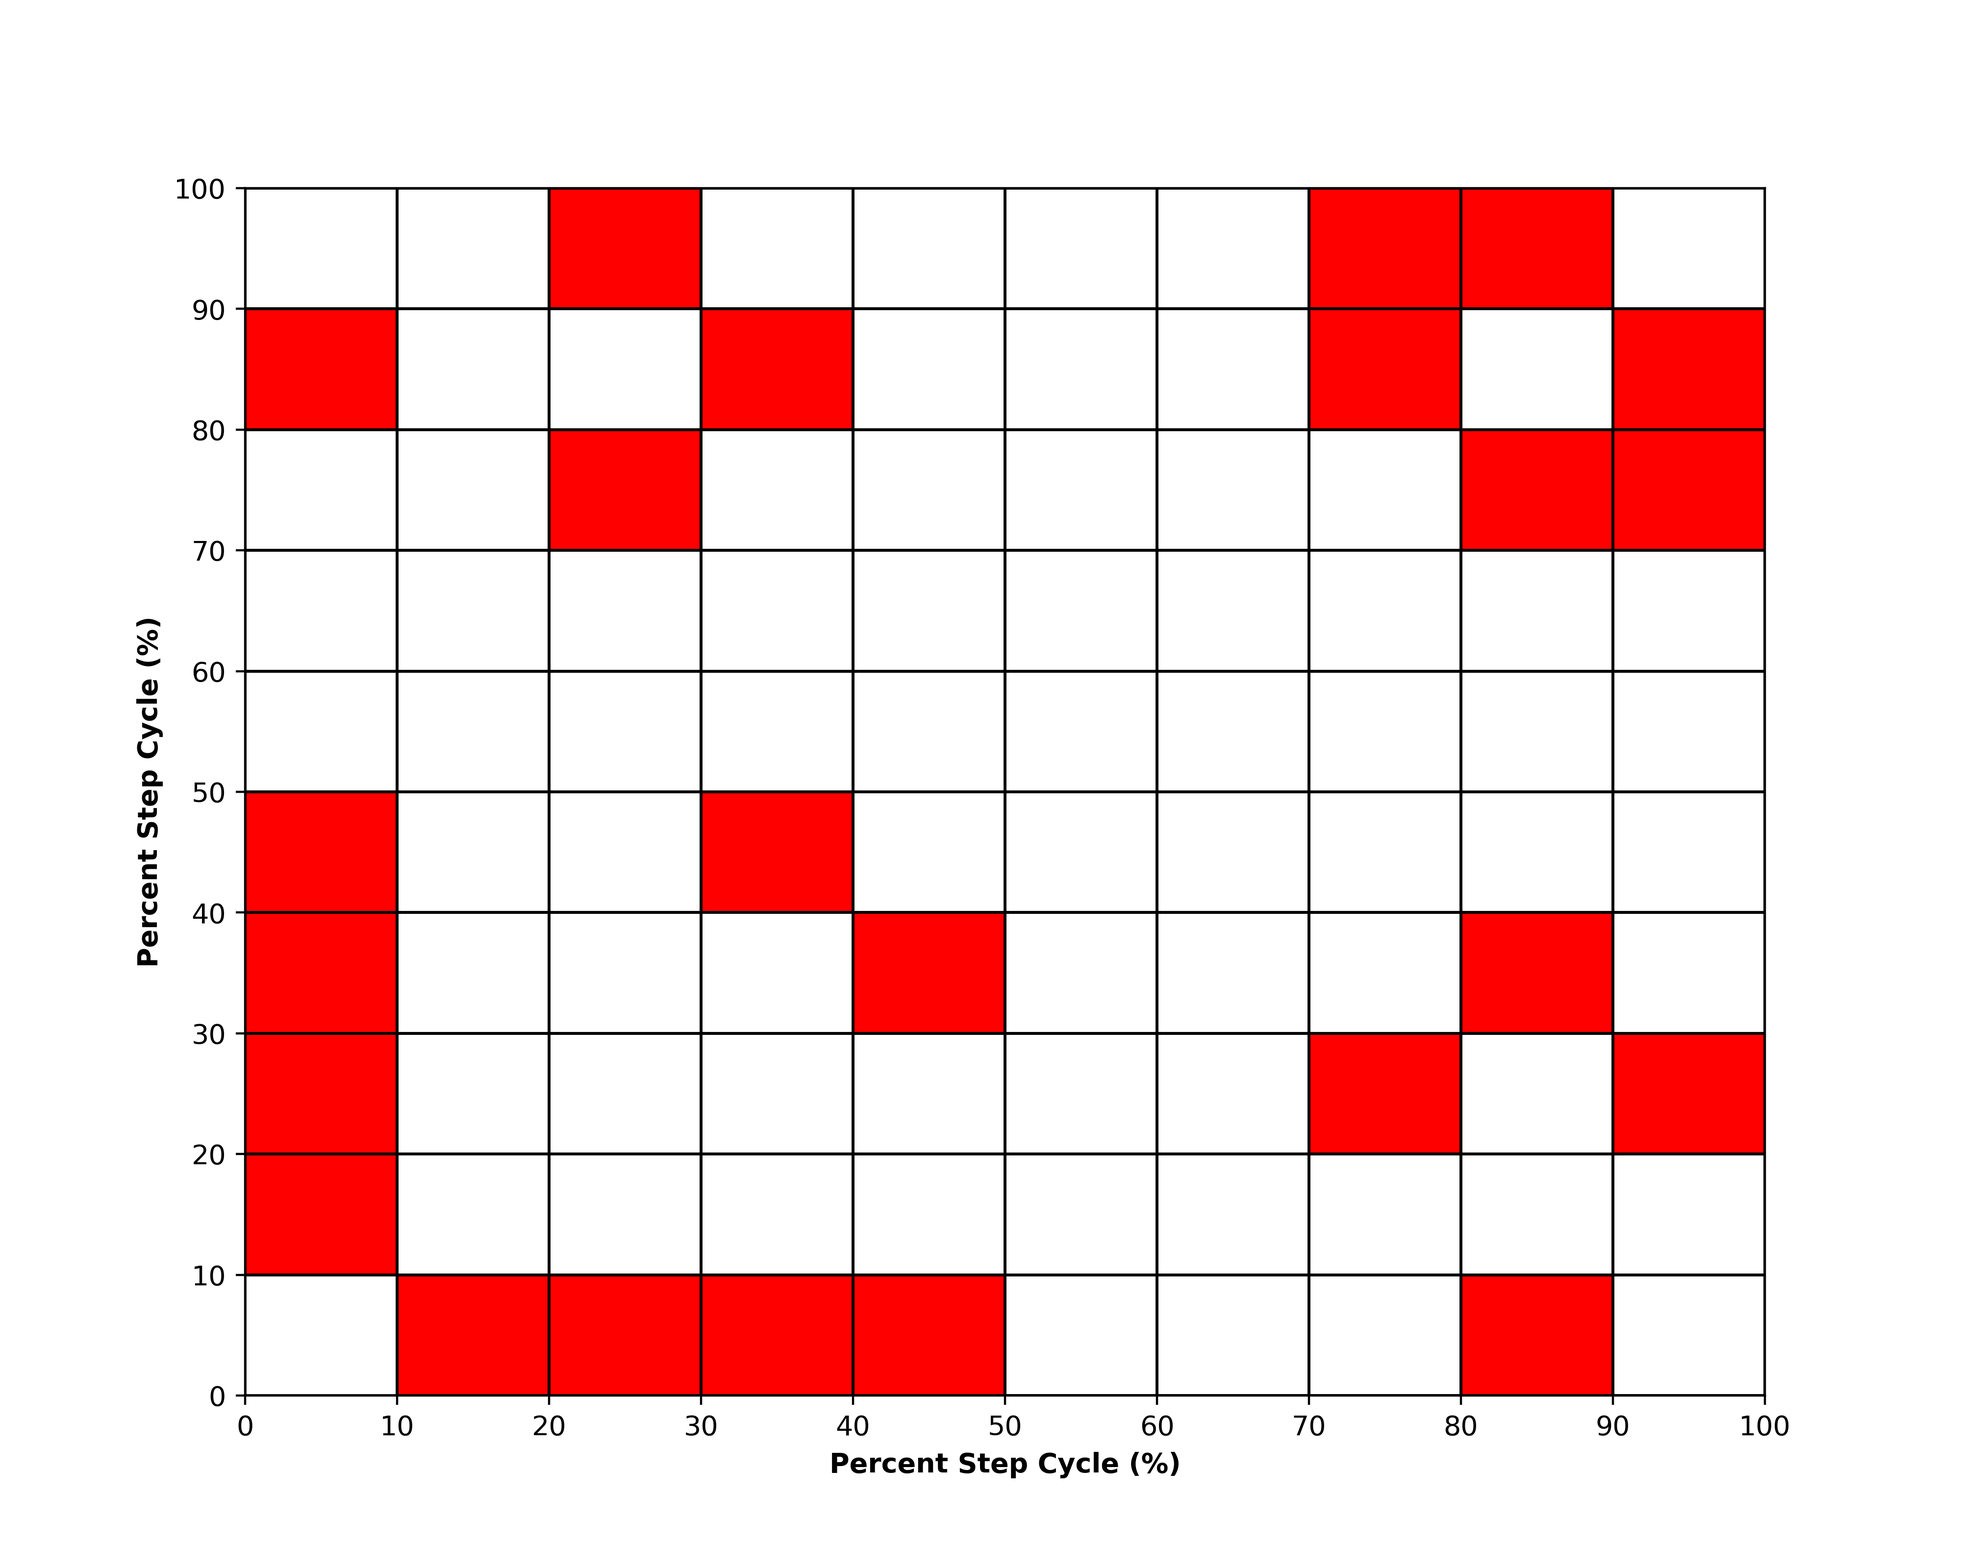
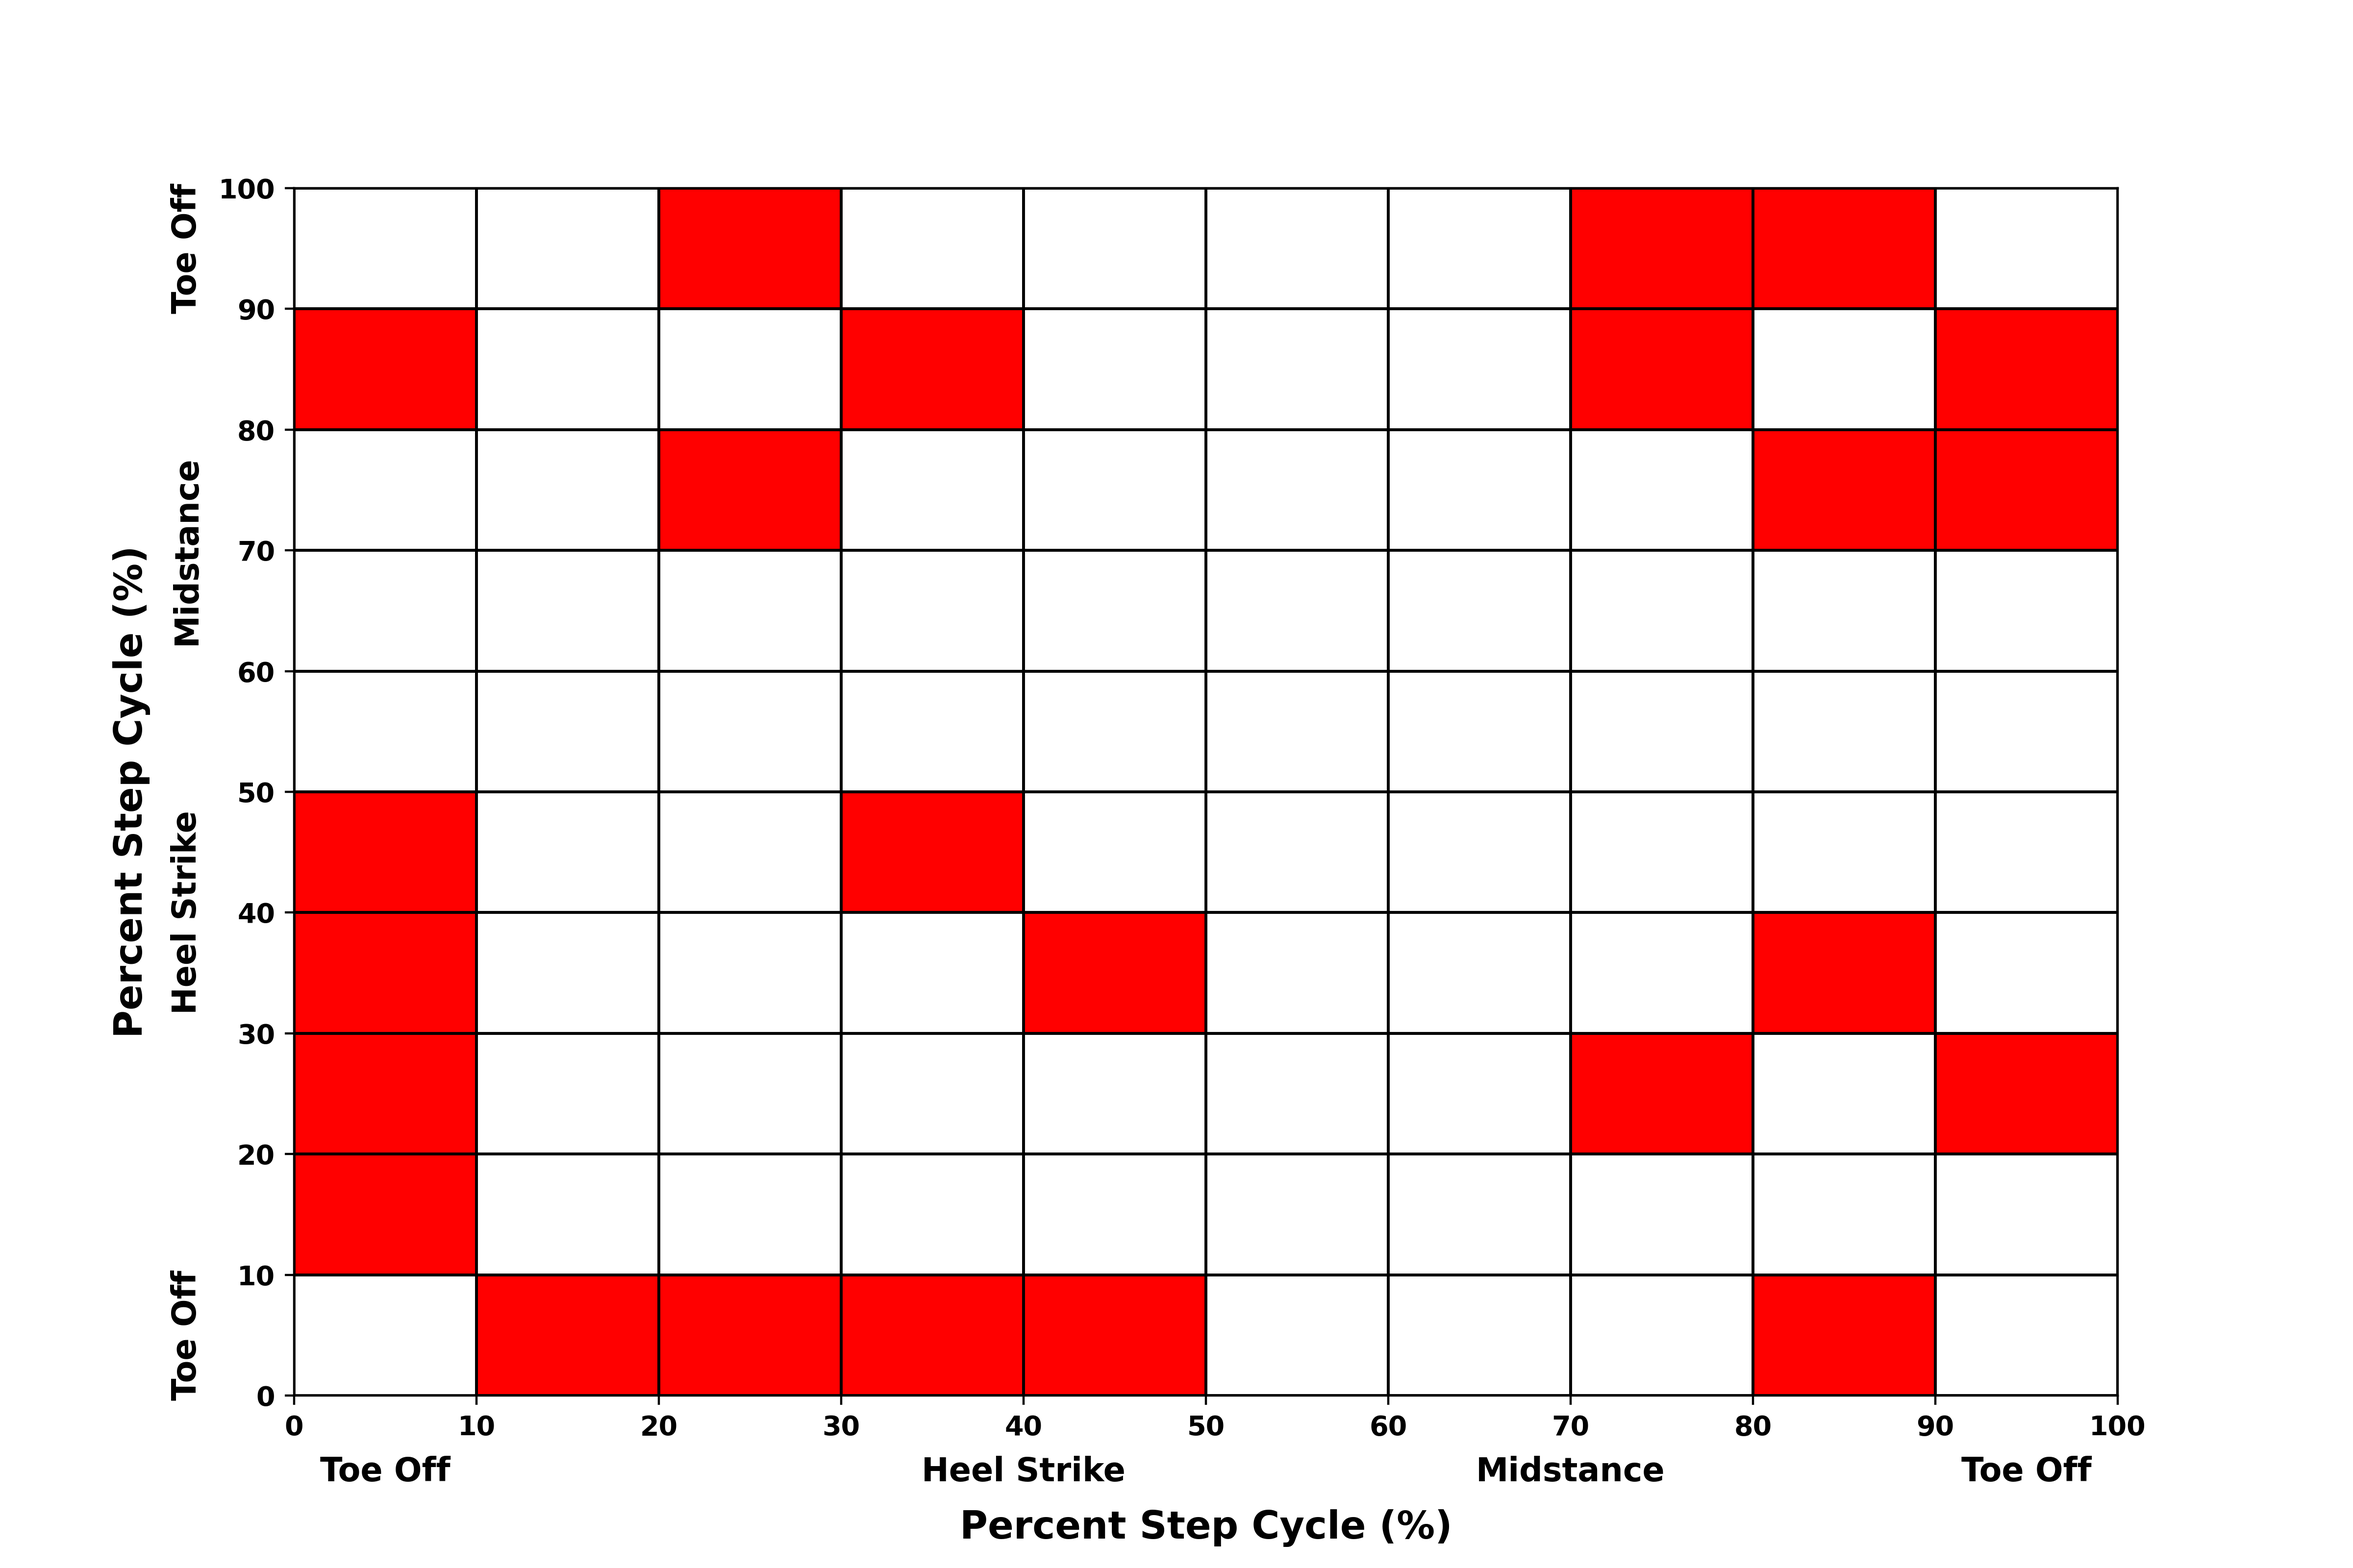
ADD: latest p_value plot

diff --git a/p_values_step.py b/p_values_step.py
@@ -3,6 +3,17 @@ import numpy as np
 import seaborn as sns
 import matplotlib.pyplot as plt
 import matplotlib.patches as patches
+from matplotlib.offsetbox import OffsetImage, AnnotationBbox
+
+# Function to display images at specific coordinates
+def add_image(image_path, ax, x, y, zoom=0.1):
+    image = plt.imread(image_path)
+    imagebox = OffsetImage(image, zoom=zoom)
+    ab = AnnotationBbox(imagebox, (x, y), frameon=False)
+    ax.add_artist(ab)   
+
+def add_text_label(label, x, y, ax, fontsize=12):
+    ax.text(x, y, label, fontsize=fontsize, ha='center', va='top')
 
 # Sample p-values DataFrame (replace this with your actual data)
 p_values_df = pd.DataFrame({
@@ -28,7 +39,7 @@ num_comparisons = 45  # Adjust the number of comparisons based on your data
 bonferroni_threshold = 0.05 / num_comparisons
 
 # Create the heatmap with cell blocks
-plt.figure(figsize=(10, 8))
+plt.figure(figsize=(12, 8))
 ax = plt.gca()
 
 for i in range(p_values_df.shape[0]):
@@ -49,6 +60,73 @@ plt.grid(True, color='black', linestyle='-', linewidth=1)
 plt.xticks(range(p_values_df.shape[1]), p_values_df.columns)
 plt.yticks(range(p_values_df.shape[0]), p_values_df.index)
 
-plt.ylabel('Percent Step Cycle (%)',fontweight='bold')
-plt.xlabel('Percent Step Cycle (%)',fontweight='bold')
+# Overlay text labels below the x-axis
+# x_intervals = [1, 8, 10]  # Adjust as needed (0 to 100)
+# y = -1  # Adjust the y-coordinate to place labels below the x-axis
+# labels = ["Heel Strike", "Midstance", "Toe Off"]
+
+x_intervals = [0.5, 4, 7, 9.5]  # Adjust as needed (0 to 100)
+y = -0.5  # Slightly above the x-axis label
+labels = ["Toe Off", "Heel Strike", "Midstance", "Toe Off"]
+
+for x, label in zip(x_intervals, labels):
+    ax.text(x, y, label, fontsize=12, ha='center', va='top', fontweight='bold')
+
+# Add labels along the y-axis
+y_intervals = [0.5, 4, 7, 9.5]  # Adjust as needed (0 to 100)
+x_val = -0.5  # Slightly above the x-axis label
+# labels_y = ["Label1", "Label2", "Label3"]
+
+for y, label in zip(y_intervals, labels):
+    ax.text(x_val, y, label, fontsize=12, ha='right', va='center', fontweight='bold', rotation=90)
+
+# for x, label in zip(x_intervals, labels):
+#     add_text_label(label, x, y, ax, fontsize=12)
+# Overlay images below the x-axis
+# x_intervals = [.1]  # Adjust as needed (0 to 10)
+# y = 0.1  # Adjust the y-coordinate to place images below the x-axis
+# image_paths = [
+#     "gait_images/midswing.png",
+#     # "gait_images/heel_strike1.png",
+#     # "gait_images/start_midstance.png"
+# ]
+# for y in x_intervals:
+#     add_image(image_paths.pop(0), ax_images, x, y, zoom=0.1)
+# for x in x_intervals:
+#     add_image(image_paths.pop(0), x, y)
+
+# Overlay images at specified intervals
+# x_intervals = [10, 30, 60]  # Adjust as needed (0 to 100)
+# y_intervals = [20, 50, 80]  # Adjust as needed (0 to 100)
+# image_paths = ["gait_images/midswing.png",
+#                 "gait_images/heel_strike1.png","gait_images/start_midstance.png",
+#                 "gait_images/midstance.png", "gait_images/heel_strike_opp_foot.png",
+#                 "gait_images/midswing.png"
+#                 ]
+# for x, y in zip(x_intervals,y_intervals):
+#         add_image(image_paths.pop(0), x, y, zoom=0.1)
+
+#GAIT IMAGES
+# Specify the paths of your images
+# image_paths = ["midswing.png",
+#                 "heel_strike1.png","start_midstance.png",
+#                 "midstance.png", "heel_strike_opp_foot.png",
+#                 "midswing.png"]
+# # Specify the x-axis positions for each image
+# x_positions = [0,
+#                 17, 42,
+#                 60,74,
+#                 94]
+# for path, x in zip(image_paths, x_positions):
+#     # Load and plot each image at the specified x-axis position
+#     image = plt.imread(path)
+#     if path == "midswing.png" or path == "midstance.png" or path == "midswing1.png":
+#         ax[3].imshow(image, extent=[x, x+6, 0, 1],aspect="auto") 
+#     else:
+#         ax[3].imshow(image, extent=[x, x+10, 0, 1],aspect="auto") 
+# ax.tick_params(axis='both', which='both', labelsize=12, pad=5, fontweight='bold')
+plt.xticks(fontweight='bold')
+plt.yticks(fontweight='bold')
+plt.ylabel('Percent Step Cycle (%)',fontweight='bold',fontsize=14,labelpad=25)
+plt.xlabel('Percent Step Cycle (%)',fontweight='bold',fontsize=14, labelpad=25)
 plt.savefig('alternations_step_cycle_t_test_cycle.png',dpi=400)

diff --git a/alternation_rate_step_cycle.py b/alternation_rate_step_cycle.py
@@ -335,6 +335,23 @@ def extract_stride_moments(track):
     # plt.ylabel('Head Y-position Height (m)')
     # plt.legend()
     # plt.show()
+
+    # Extract data between the third and fourth peaks just for step percentage analysis - example
+    # start_peak = peaks_head[2]
+    # end_peak = peaks_head[3]
+    # extracted_data = sub_df['position'].iloc[start_peak:end_peak + 1]
+    # # Generate x-axis values
+    # vals = np.linspace(0, 100, len(extracted_data))
+    # # Plot the extracted data with a y-axis range from 0 to 100
+    # plt.figure()
+    # plt.plot(vals, extracted_data, label='head Y Position')
+    # plt.xlabel('Samples')
+    # plt.ylabel('Head Y-position Height (m)')
+    # # plt.ylim(0, 100)  # Set y-axis range from 0 to 100
+    # plt.legend()
+    # plt.show()
+
+    
     return sub_df['t'].iloc[peaks_head]
 
 def get_each_trial(track,resp,trial):
@@ -459,8 +476,6 @@ def t_test_bins(dict_inst,bin_edges):
     sns.heatmap(corrected_df, annot=True, fmt=".5f", cmap=colors, cbar=False, xticklabels=True, yticklabels=True, mask=~mask)
 
     plt.show()
-
-
 
 def main():
     csv_files_walk, csv_files_track = read_all_files()
